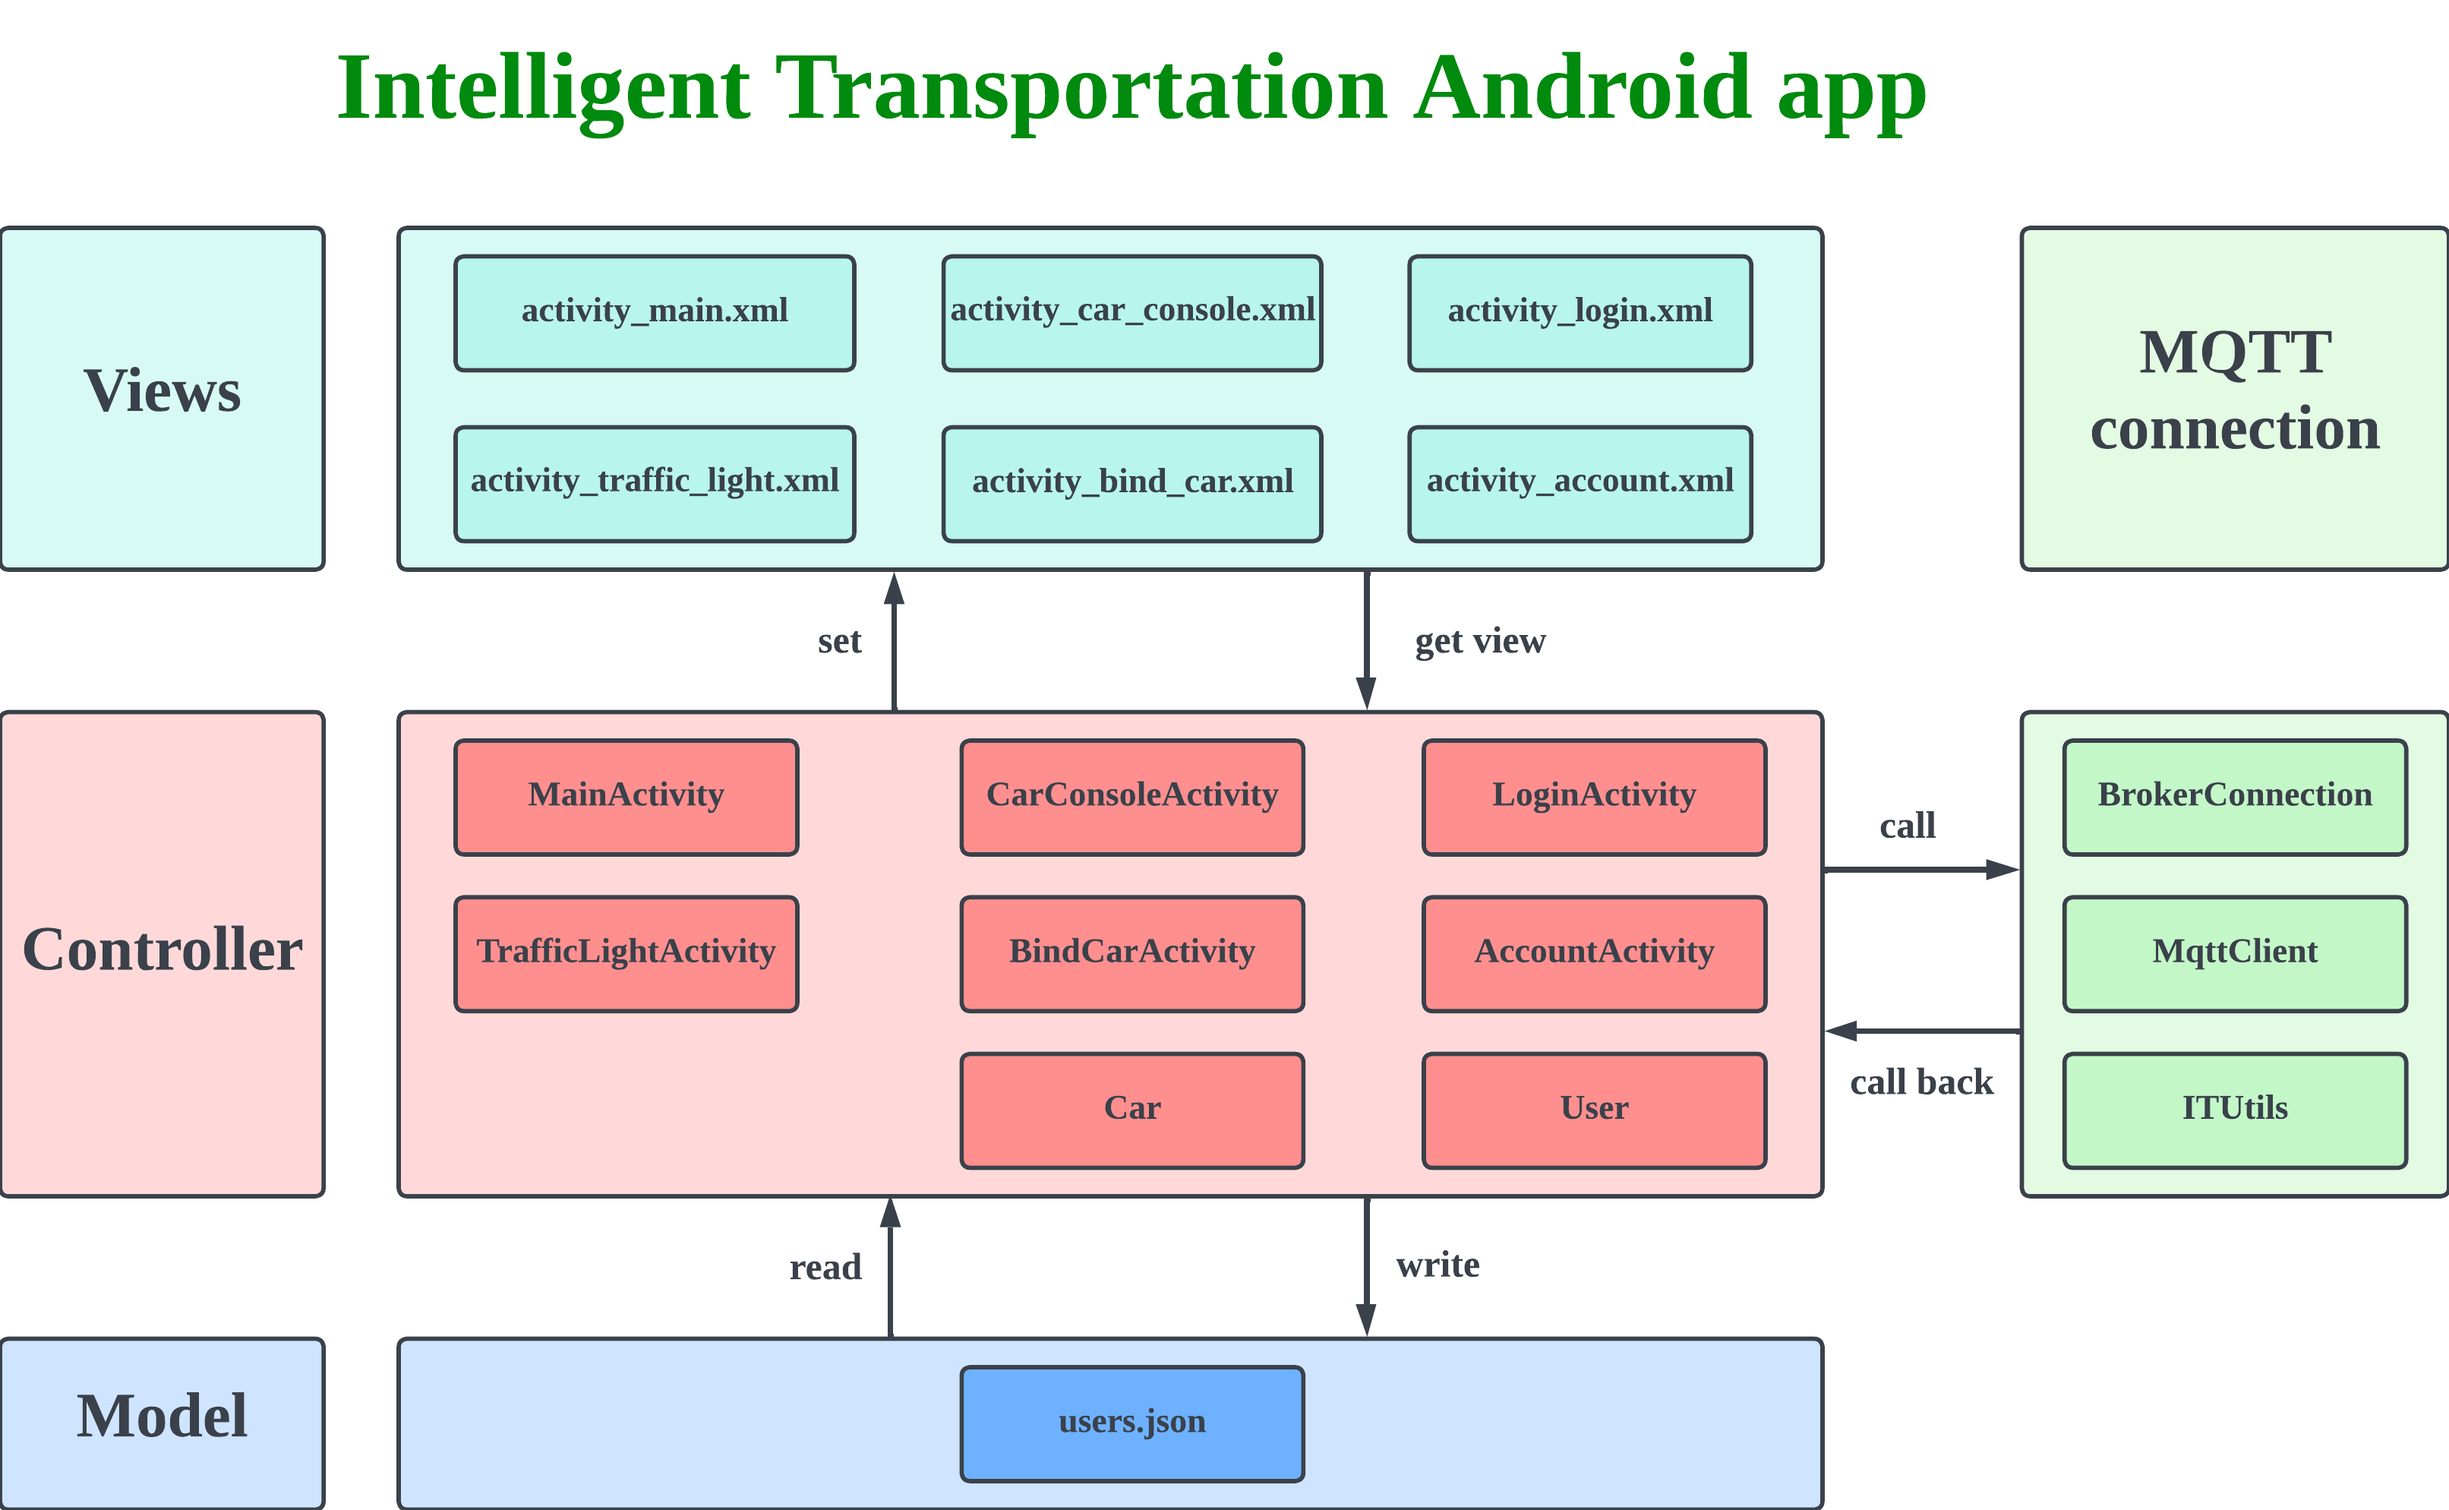
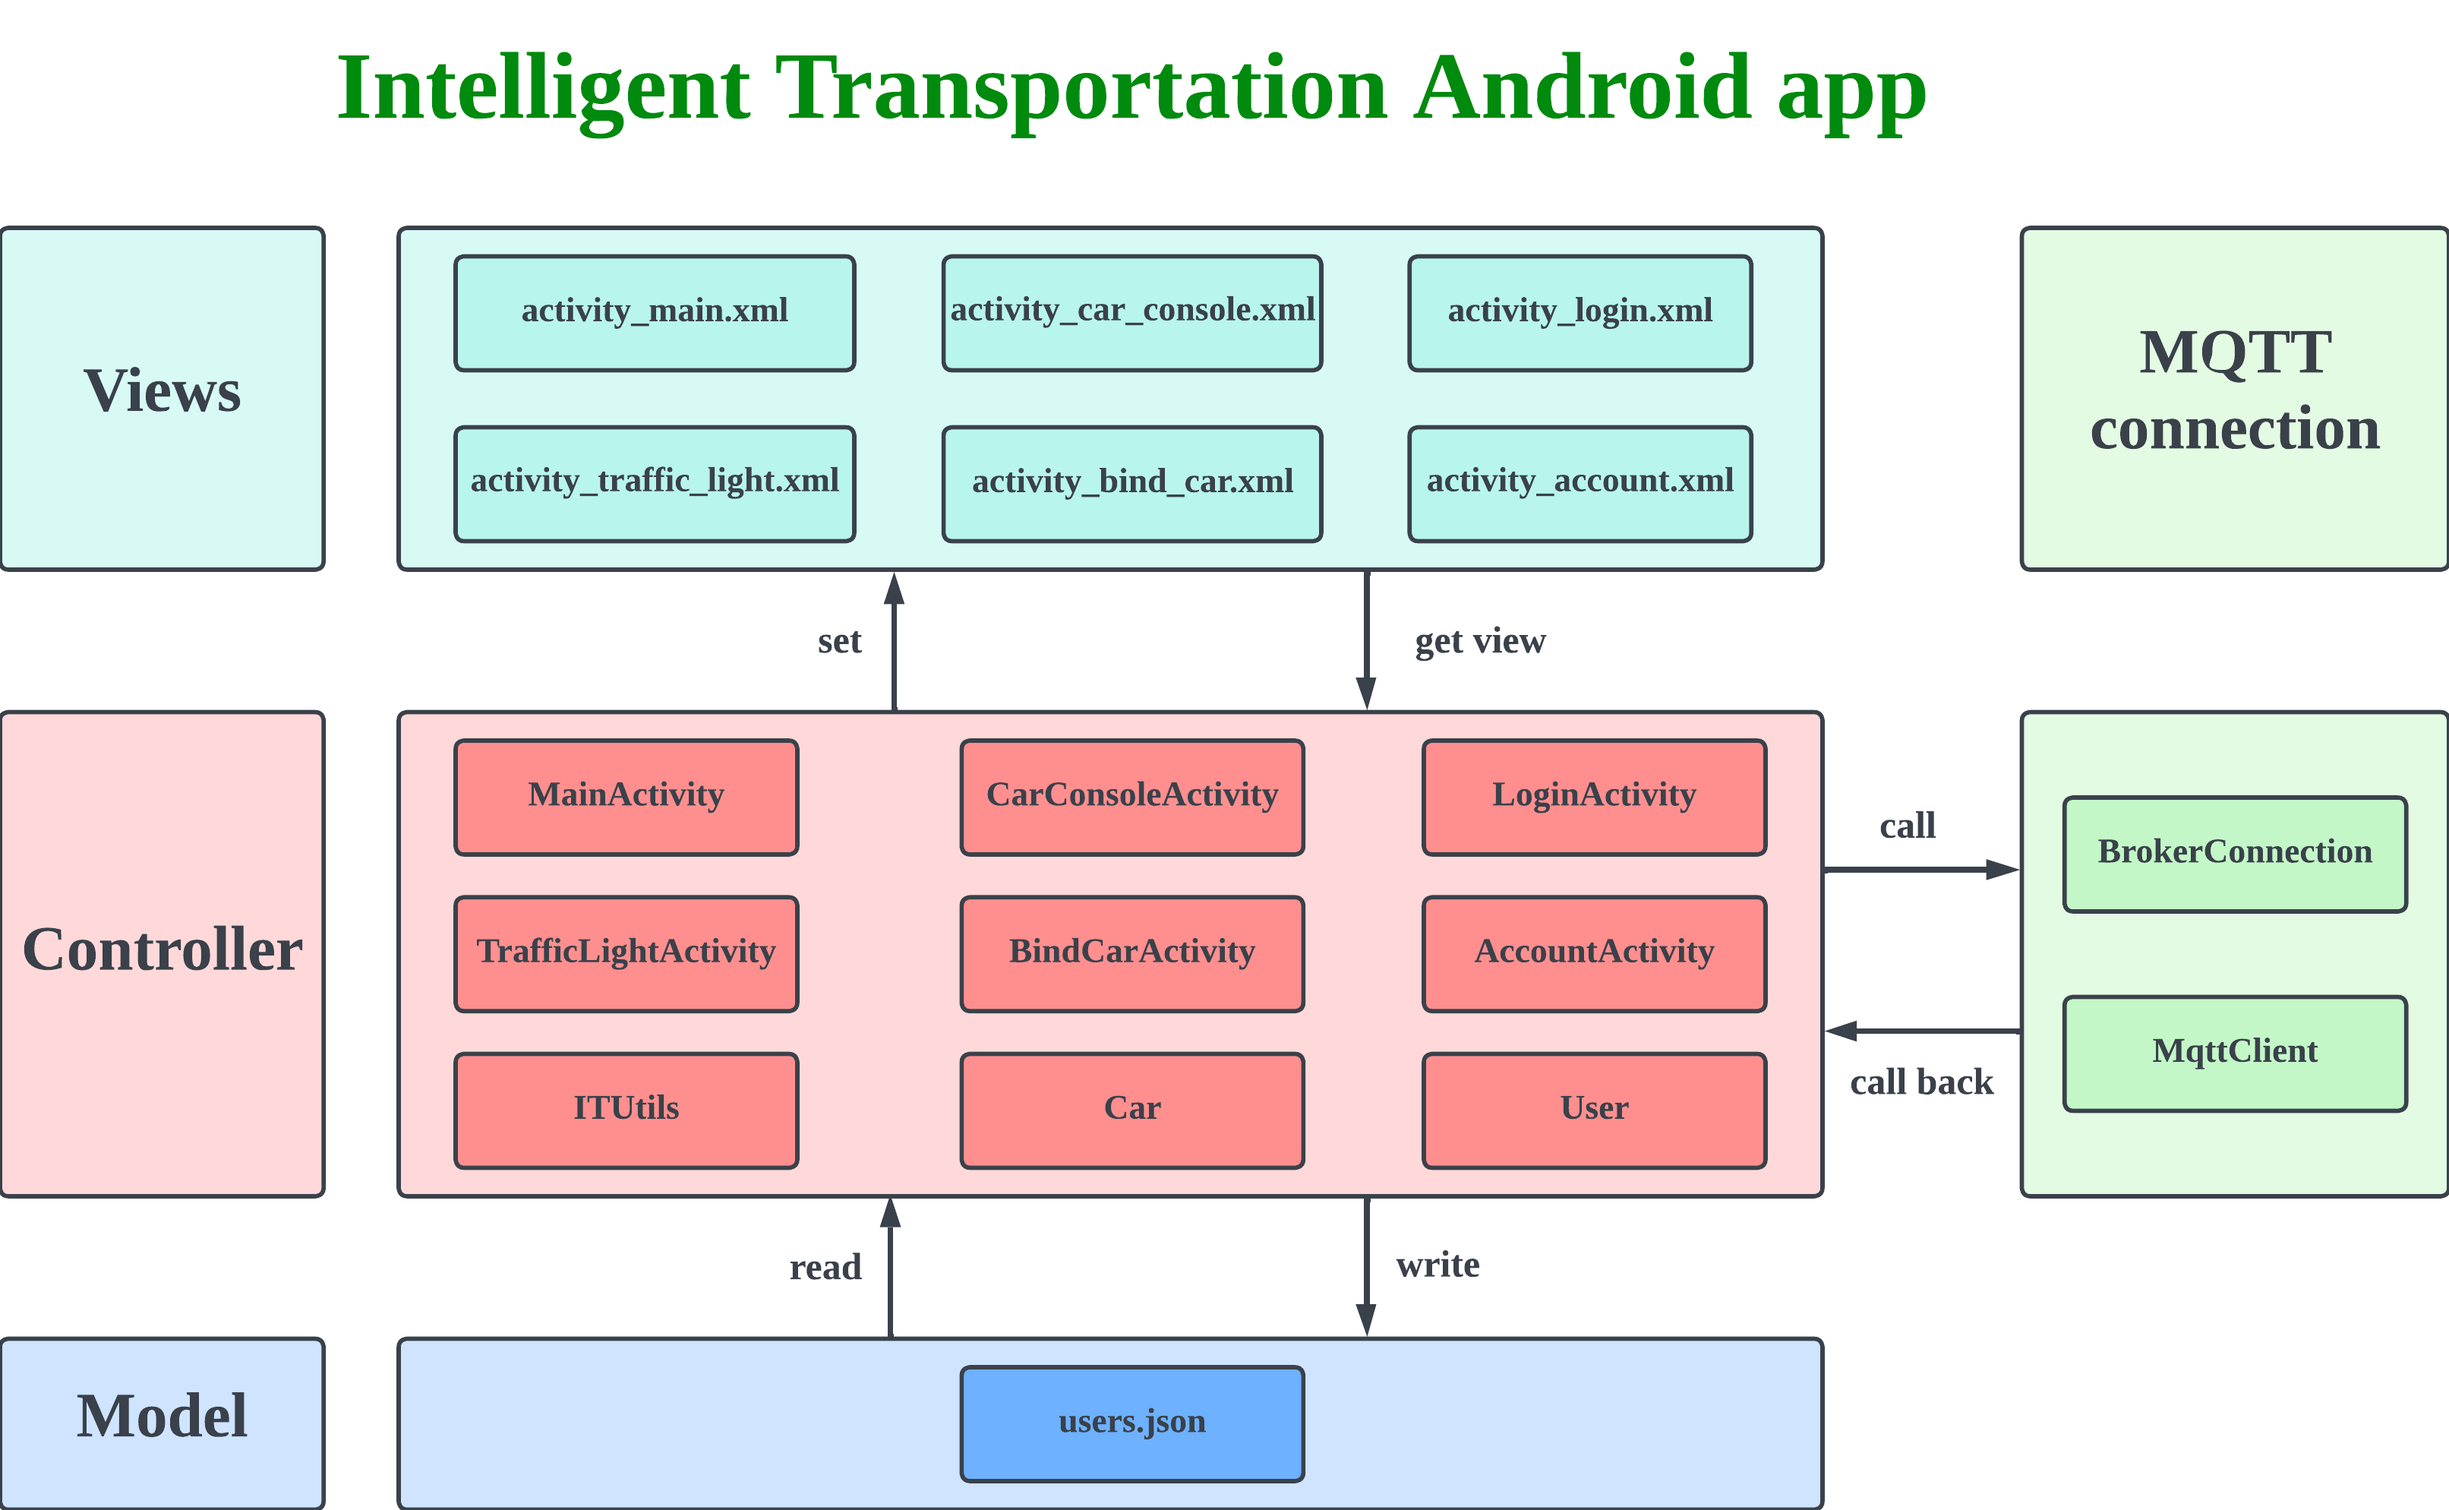
update: update software_architecture diagram
Update software_architecture diagram. And rename the users.json file name.

Changed region(s): [[0.8372, 0.5614, 0.9922, 0.7797], [0.186, 0.6861, 0.3411, 0.7797], [0.8372, 0.4678, 0.9922, 0.5302]]

diff --git a/Android/app/src/main/java/com/intelligenttransportation/LoginActivity.java b/Android/app/src/main/java/com/intelligenttransportation/LoginActivity.java
@@ -63,7 +63,7 @@ public class LoginActivity extends AppCompatActivity {
     private boolean verifyCredentials(String username, String password) {
         BufferedReader reader = null;
         try {
-            reader = new BufferedReader(new InputStreamReader(getAssets().open("Users.txt")));
+            reader = new BufferedReader(new InputStreamReader(getAssets().open("users.json")));
 
             StringBuilder jsonContent = new StringBuilder();
             String line;
